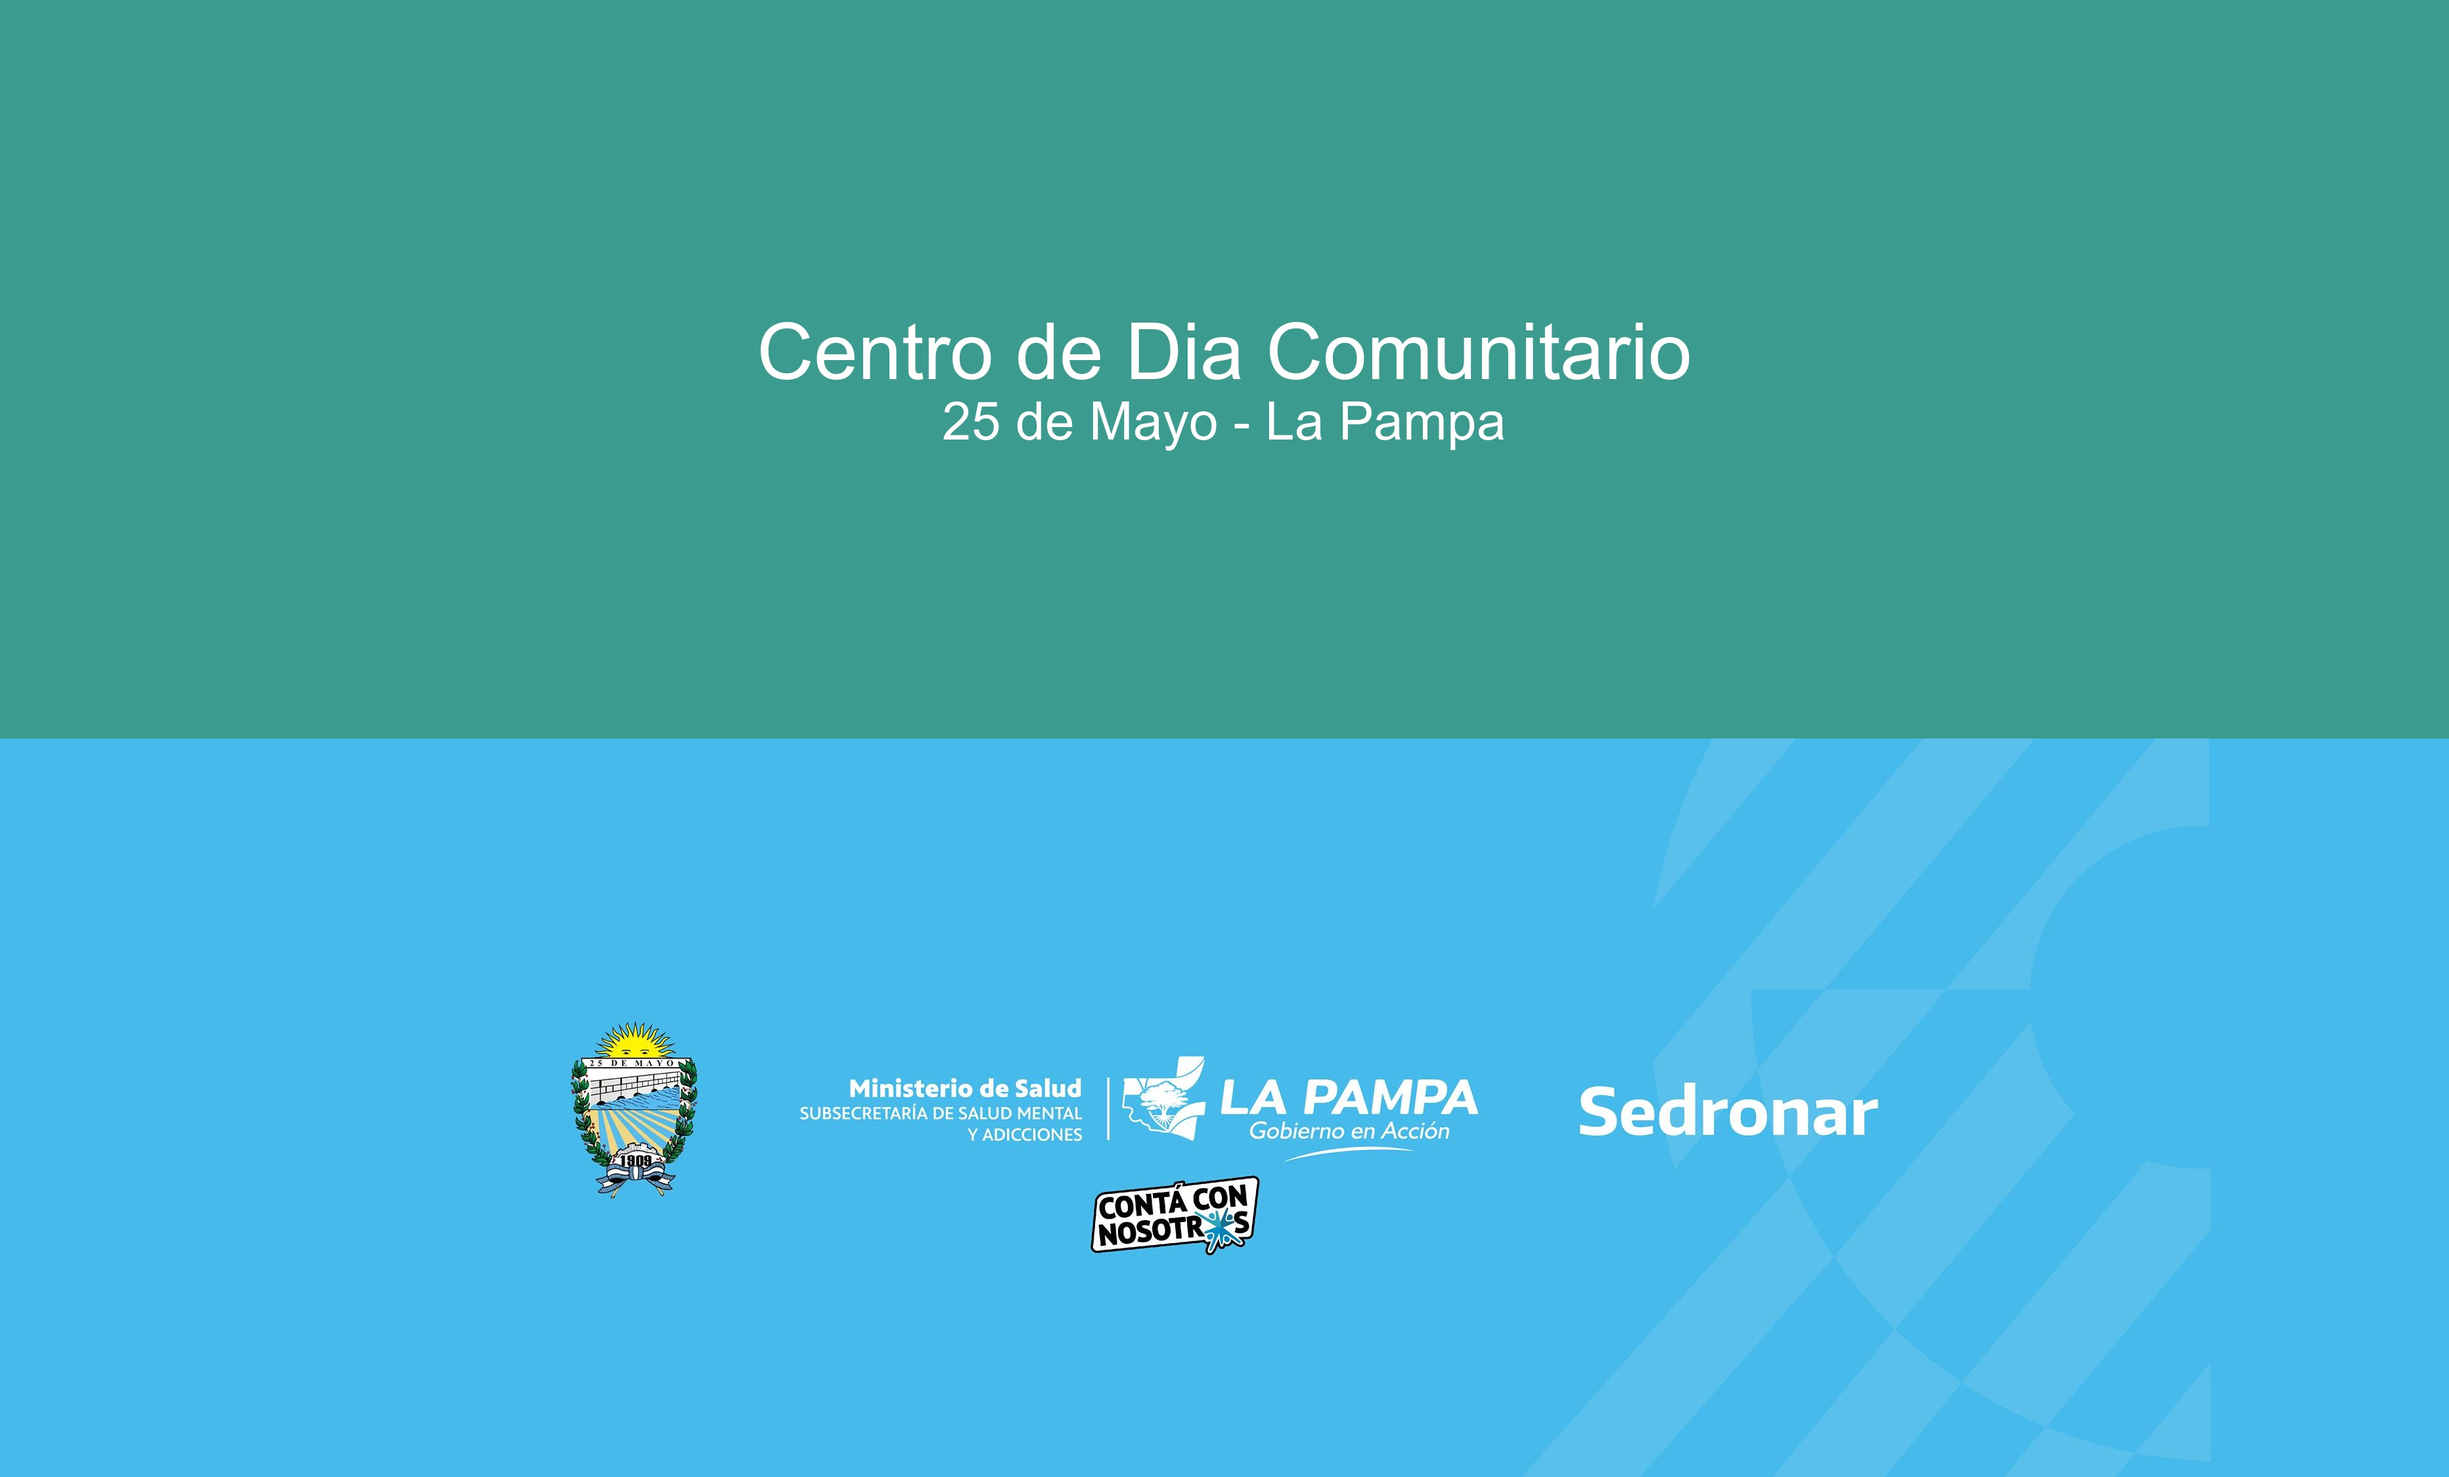
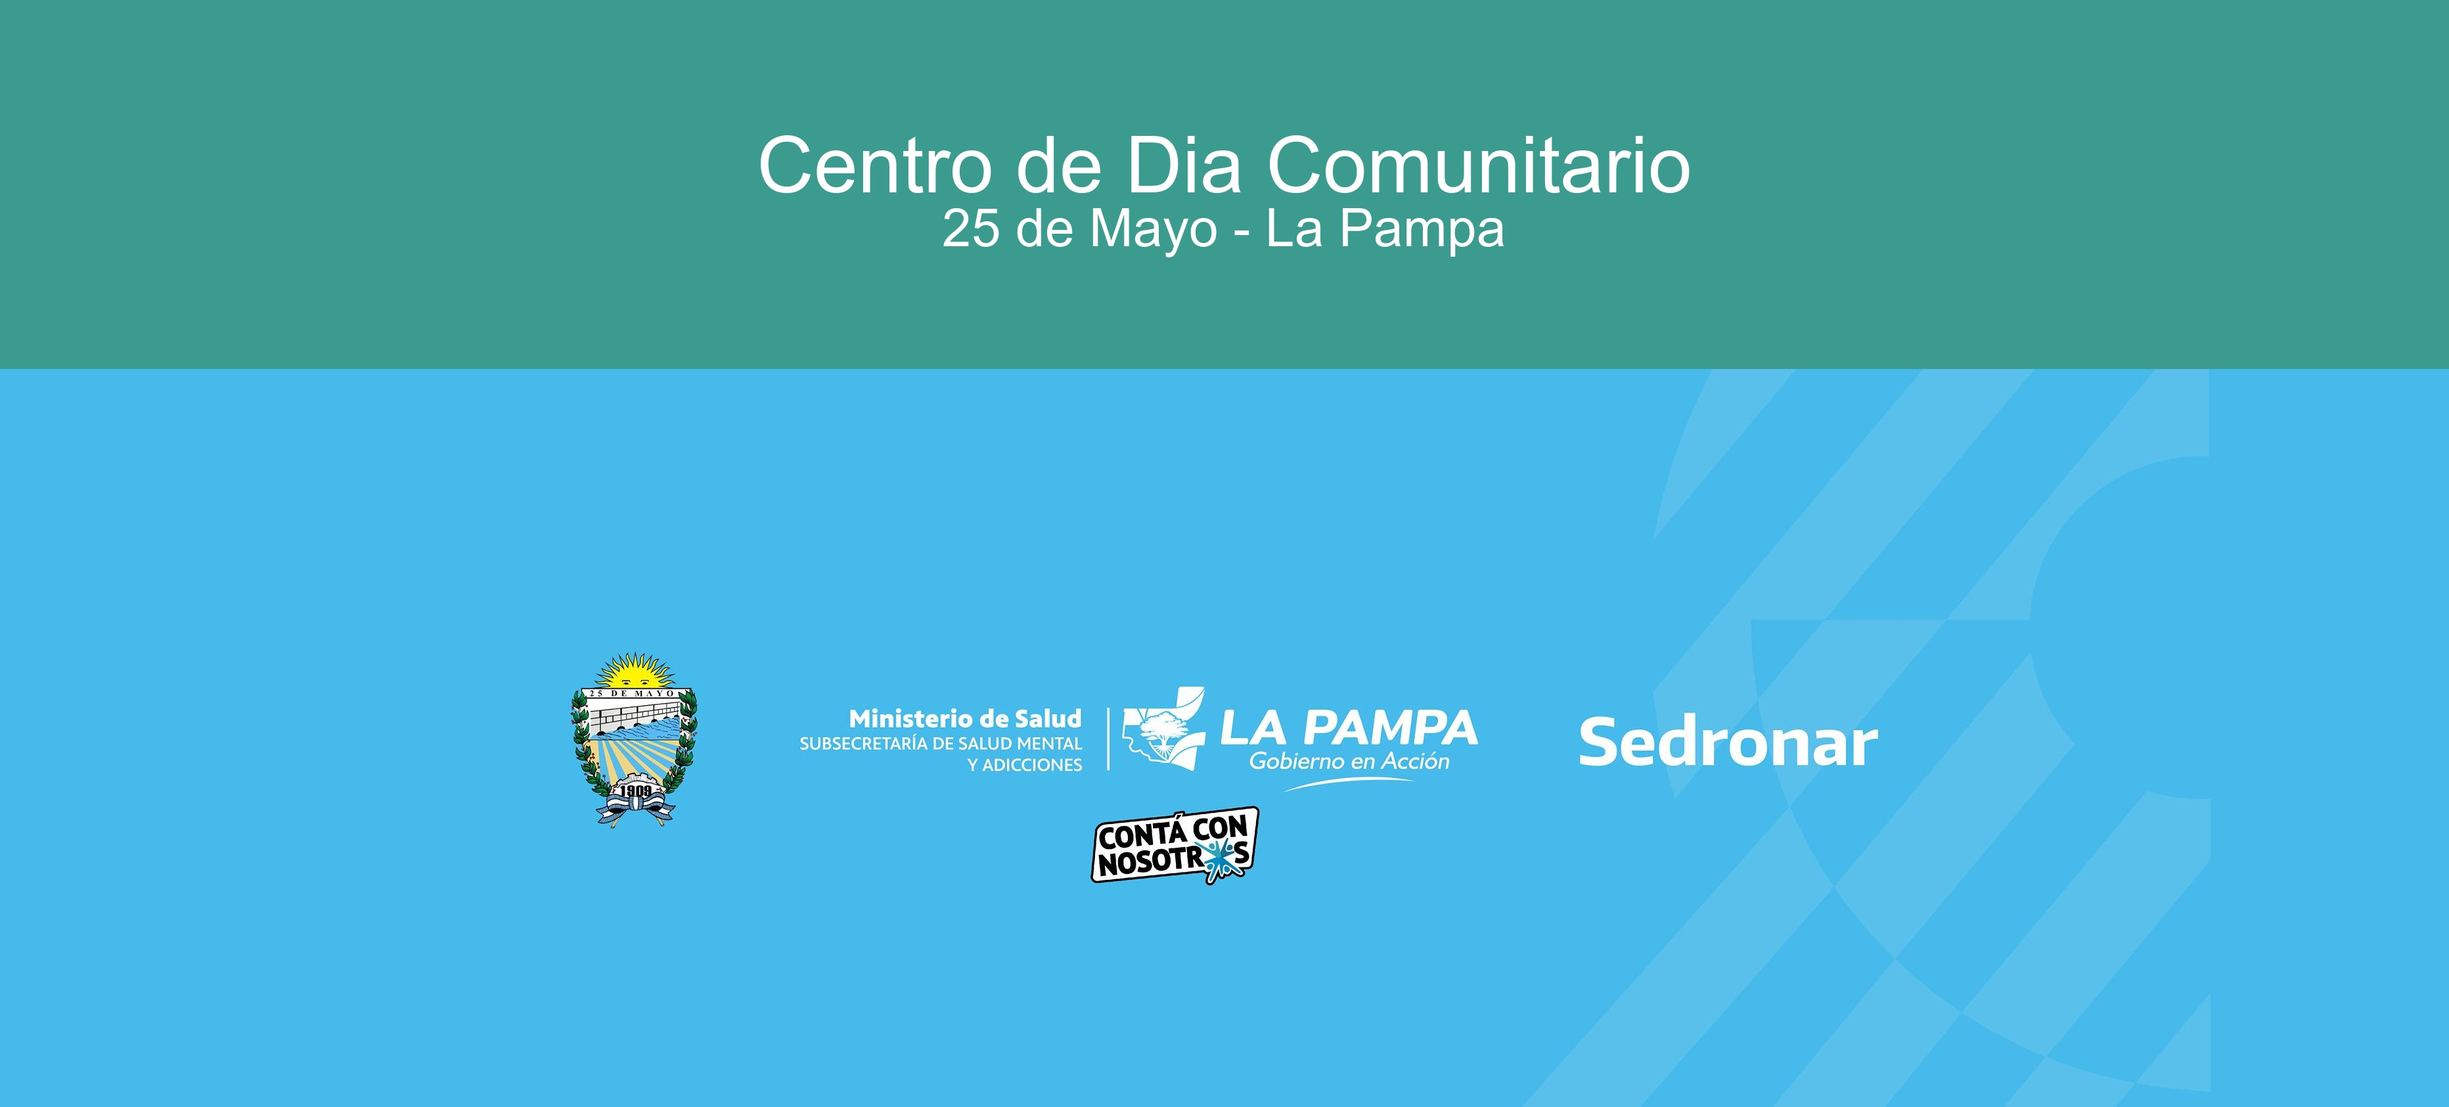
Reducir altura del Ã¡rea verde del header a la mitad manteniendo tamaÃ±o del texto

Changed region(s): [[0.0, 0.1234, 1.0, 0.5243], [0.2178, 0.586, 0.7779, 0.8636]]

diff --git a/crear_header.py b/crear_header.py
@@ -20,12 +20,13 @@ width, height = img.size
 
 print(f"Dimensiones originales: {width}x{height}")
 
-# Crear una nueva imagen con área verde más grande (igual tamaño que el área celeste)
-new_height = height * 2  # Duplicar la altura para que verde = celeste
+# Crear una nueva imagen con área verde reducida (la mitad del área celeste)
+verde_height = height // 2  # Área verde = mitad del área celeste
+new_height = height + verde_height  # Altura total = logos + área verde
 new_img = Image.new('RGB', (width, new_height), color='#3b9b8f')  # Color verde CDC
 
 # Pegar la imagen de logos en la parte inferior
-new_img.paste(img, (0, height))
+new_img.paste(img, (0, verde_height))
 
 # Crear objeto para dibujar
 draw = ImageDraw.Draw(new_img)
@@ -49,19 +50,25 @@ except:
 title = "Centro de Dia Comunitario"
 subtitle = "25 de Mayo - La Pampa"
 
-# Calcular posiciones para centrar el texto en el área verde
+# Calcular posiciones para centrar el texto en el área verde (más pequeña)
 # Para el título
 bbox_title = draw.textbbox((0, 0), title, font=font_title)
 title_width = bbox_title[2] - bbox_title[0]
 title_height = bbox_title[3] - bbox_title[1]
 title_x = (width - title_width) // 2
-title_y = (height - title_height - 100) // 2  # Centrado verticalmente en área verde, un poco arriba
 
-# Para el subtítulo
+# Calcular altura total de los dos textos con espacio
 bbox_subtitle = draw.textbbox((0, 0), subtitle, font=font_subtitle)
 subtitle_width = bbox_subtitle[2] - bbox_subtitle[0]
+subtitle_height = bbox_subtitle[3] - bbox_subtitle[1]
+total_text_height = title_height + 30 + subtitle_height  # 30px de espacio entre textos
+
+# Centrar verticalmente todo el bloque de texto en el área verde
+title_y = (verde_height - total_text_height) // 2
+
+# Para el subtítulo
 subtitle_x = (width - subtitle_width) // 2
-subtitle_y = title_y + title_height + 40  # Debajo del título con espacio
+subtitle_y = title_y + title_height + 30  # Debajo del título con espacio
 
 # Dibujar el texto en blanco
 draw.text((title_x, title_y), title, fill='white', font=font_title)
